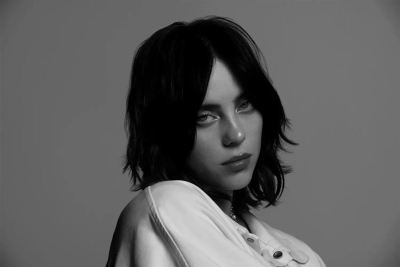
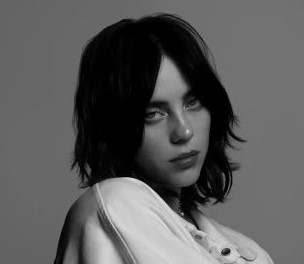
Update

Changed region(s): [[0.1776, 0.0303, 0.9178, 1.0], [0.977, 0.9697, 1.0, 1.0]]

diff --git a/my-app/src/estilos/Testimonio.css b/my-app/src/estilos/Testimonio.css
@@ -1,10 +1,32 @@
 .contenedor-testimonio {
   width: 1170px;
   height: 368px;
-  margin: 10px 10px 50px;
+  margin: 10px auto 50px;
   display: flex;
-  align-items: center;
-  justify-content: center;
   background-color: #fff;
   box-shadow: 0 3px 13px 1px rgb(0 0 0 / 9%);
+}
+
+.imagen-testimonio {
+  width: auto;
+  height: 100%;
+}
+
+.texto-testimonio {
+  width: 50%;
+  padding: 20px;
+  display: flex;
+  flex-direction: column;
+  justify-content: center;
+  align-items: center;
+  text-align: center;
+}
+.contenedor-p-testimonio {
+  width: 50%;
+  padding: 20px;
+  display: flex;
+  flex-direction: column;
+  justify-content: center;
+  align-items: center;
+  text-align: center;
 }

diff --git a/my-app/src/componentes/Testimonio.js b/my-app/src/componentes/Testimonio.js
@@ -7,9 +7,9 @@ function Testimonio() {
         src={require("../imagenes/testimonio-Billie.jpg")}
         alt="imagenBillie"
       />
-      <div clasName="contenedor-p-testimonio">
+      <div className="contenedor-p-testimonio">
         <p className="nombre-testimonio">Billie Eilish</p>
-        <p classname="cargo-testimonio">Cantante</p>
+        <p className="cargo-testimonio">Cantante</p>
         <p className="texto-testimonio">
           Me Gusta esta pagina, está bien diseñada
         </p>
